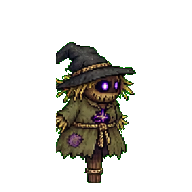
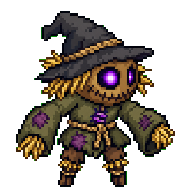
Redesign Cursed Scarecrow in cartoon field style

diff --git a/public/demo64/game-original.js b/public/demo64/game-original.js
@@ -172,9 +172,9 @@
     this.load.image('clover-spider-idle', A + 'creatures/campo/clover_spider/idle.png');
     this.load.spritesheet('clover-spider-walk', A + 'creatures/campo/clover_spider/walk.png', { frameWidth: 192, frameHeight: 192 });
     this.load.spritesheet('clover-spider-attack', A + 'creatures/campo/clover_spider/attack.png', { frameWidth: 192, frameHeight: 192 });
-    this.load.image('cursed-scarecrow-idle', A + 'creatures/campo/cursed_scarecrow/idle.png?v=3');
-    this.load.spritesheet('cursed-scarecrow-walk', A + 'creatures/campo/cursed_scarecrow/walk.png?v=3', { frameWidth: 192, frameHeight: 192 });
-    this.load.spritesheet('cursed-scarecrow-attack', A + 'creatures/campo/cursed_scarecrow/attack.png?v=3', { frameWidth: 192, frameHeight: 192 });
+    this.load.image('cursed-scarecrow-idle', A + 'creatures/campo/cursed_scarecrow/idle.png?v=cartoon1');
+    this.load.spritesheet('cursed-scarecrow-walk', A + 'creatures/campo/cursed_scarecrow/walk.png?v=cartoon1', { frameWidth: 192, frameHeight: 192 });
+    this.load.spritesheet('cursed-scarecrow-attack', A + 'creatures/campo/cursed_scarecrow/attack.png?v=cartoon1', { frameWidth: 192, frameHeight: 192 });
     this.load.image('meadow-turtle-idle', A + 'creatures/campo/meadow_turtle/idle.png?v=1');
     this.load.spritesheet('meadow-turtle-walk', A + 'creatures/campo/meadow_turtle/walk.png?v=1', { frameWidth: 192, frameHeight: 192 });
     this.load.spritesheet('meadow-turtle-attack', A + 'creatures/campo/meadow_turtle/attack.png?v=1', { frameWidth: 192, frameHeight: 192 });

diff --git a/public/demo64/game.js b/public/demo64/game.js
@@ -1,7 +1,7 @@
 /* GameRPG loader */
 (function () {
   const script = document.createElement('script');
-  script.src = './game-original.js?v=deer-saddle-v2';
+  script.src = './game-original.js?v=scarecrow-cartoon-v1';
   script.onerror = () => console.error('[GameRPG] Falha ao carregar o jogo principal.');
   document.head.appendChild(script);
 })();

diff --git a/public/demo64/index.html b/public/demo64/index.html
@@ -581,6 +581,6 @@ addEventListener('keydown', e => {
   sync();
 })();
 </script>
-<script src="game.js?v=deer-saddle-v2"></script>
+<script src="game.js?v=scarecrow-cartoon-v1"></script>
 </body>
 </html>
